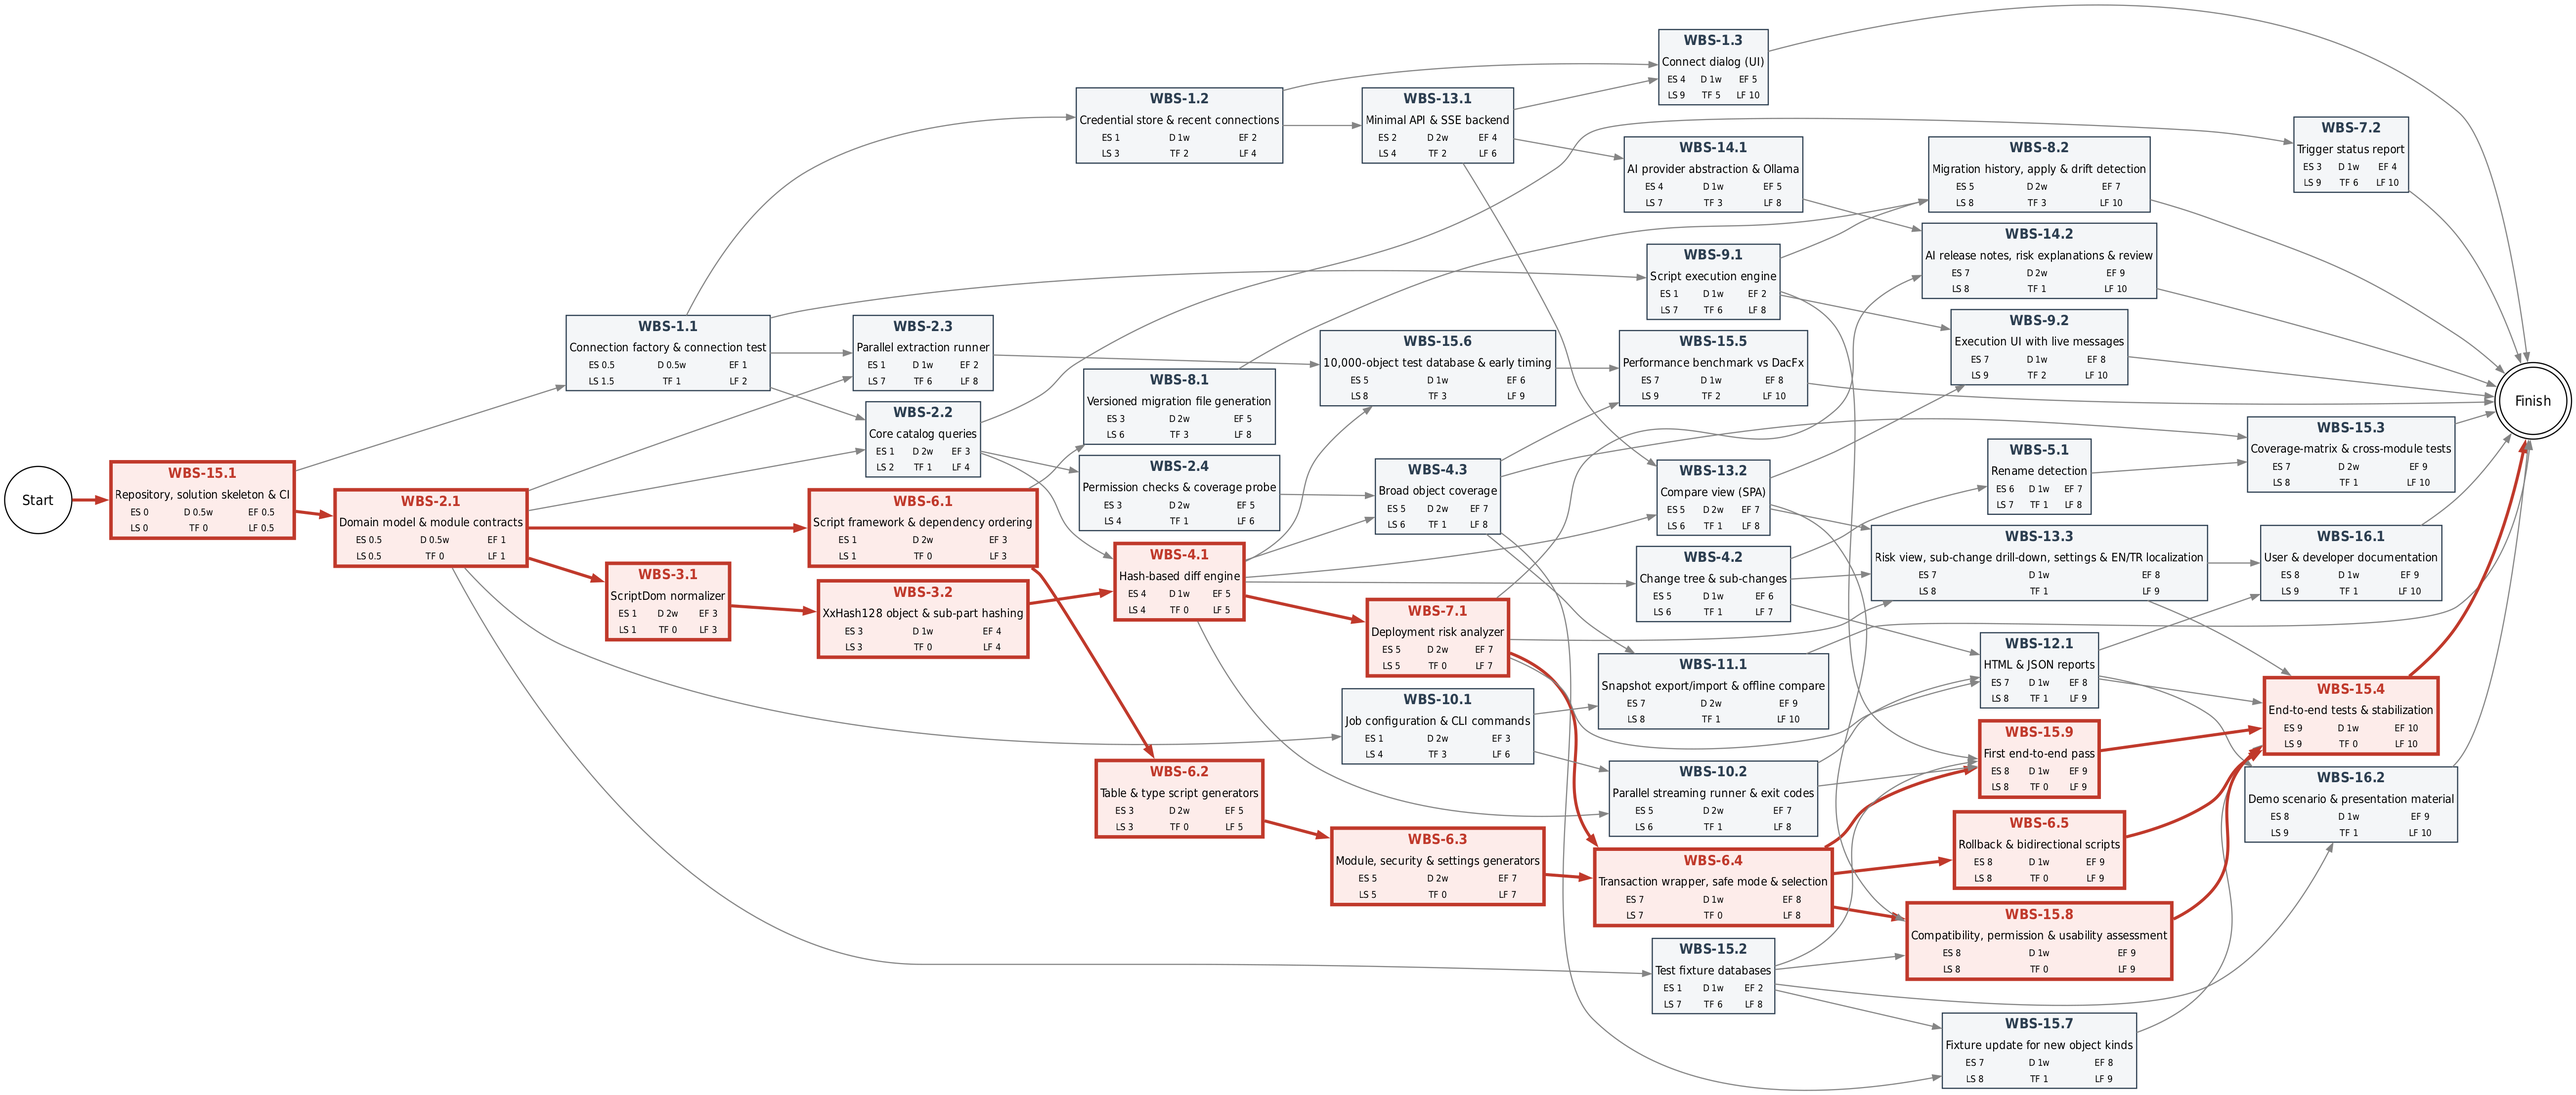
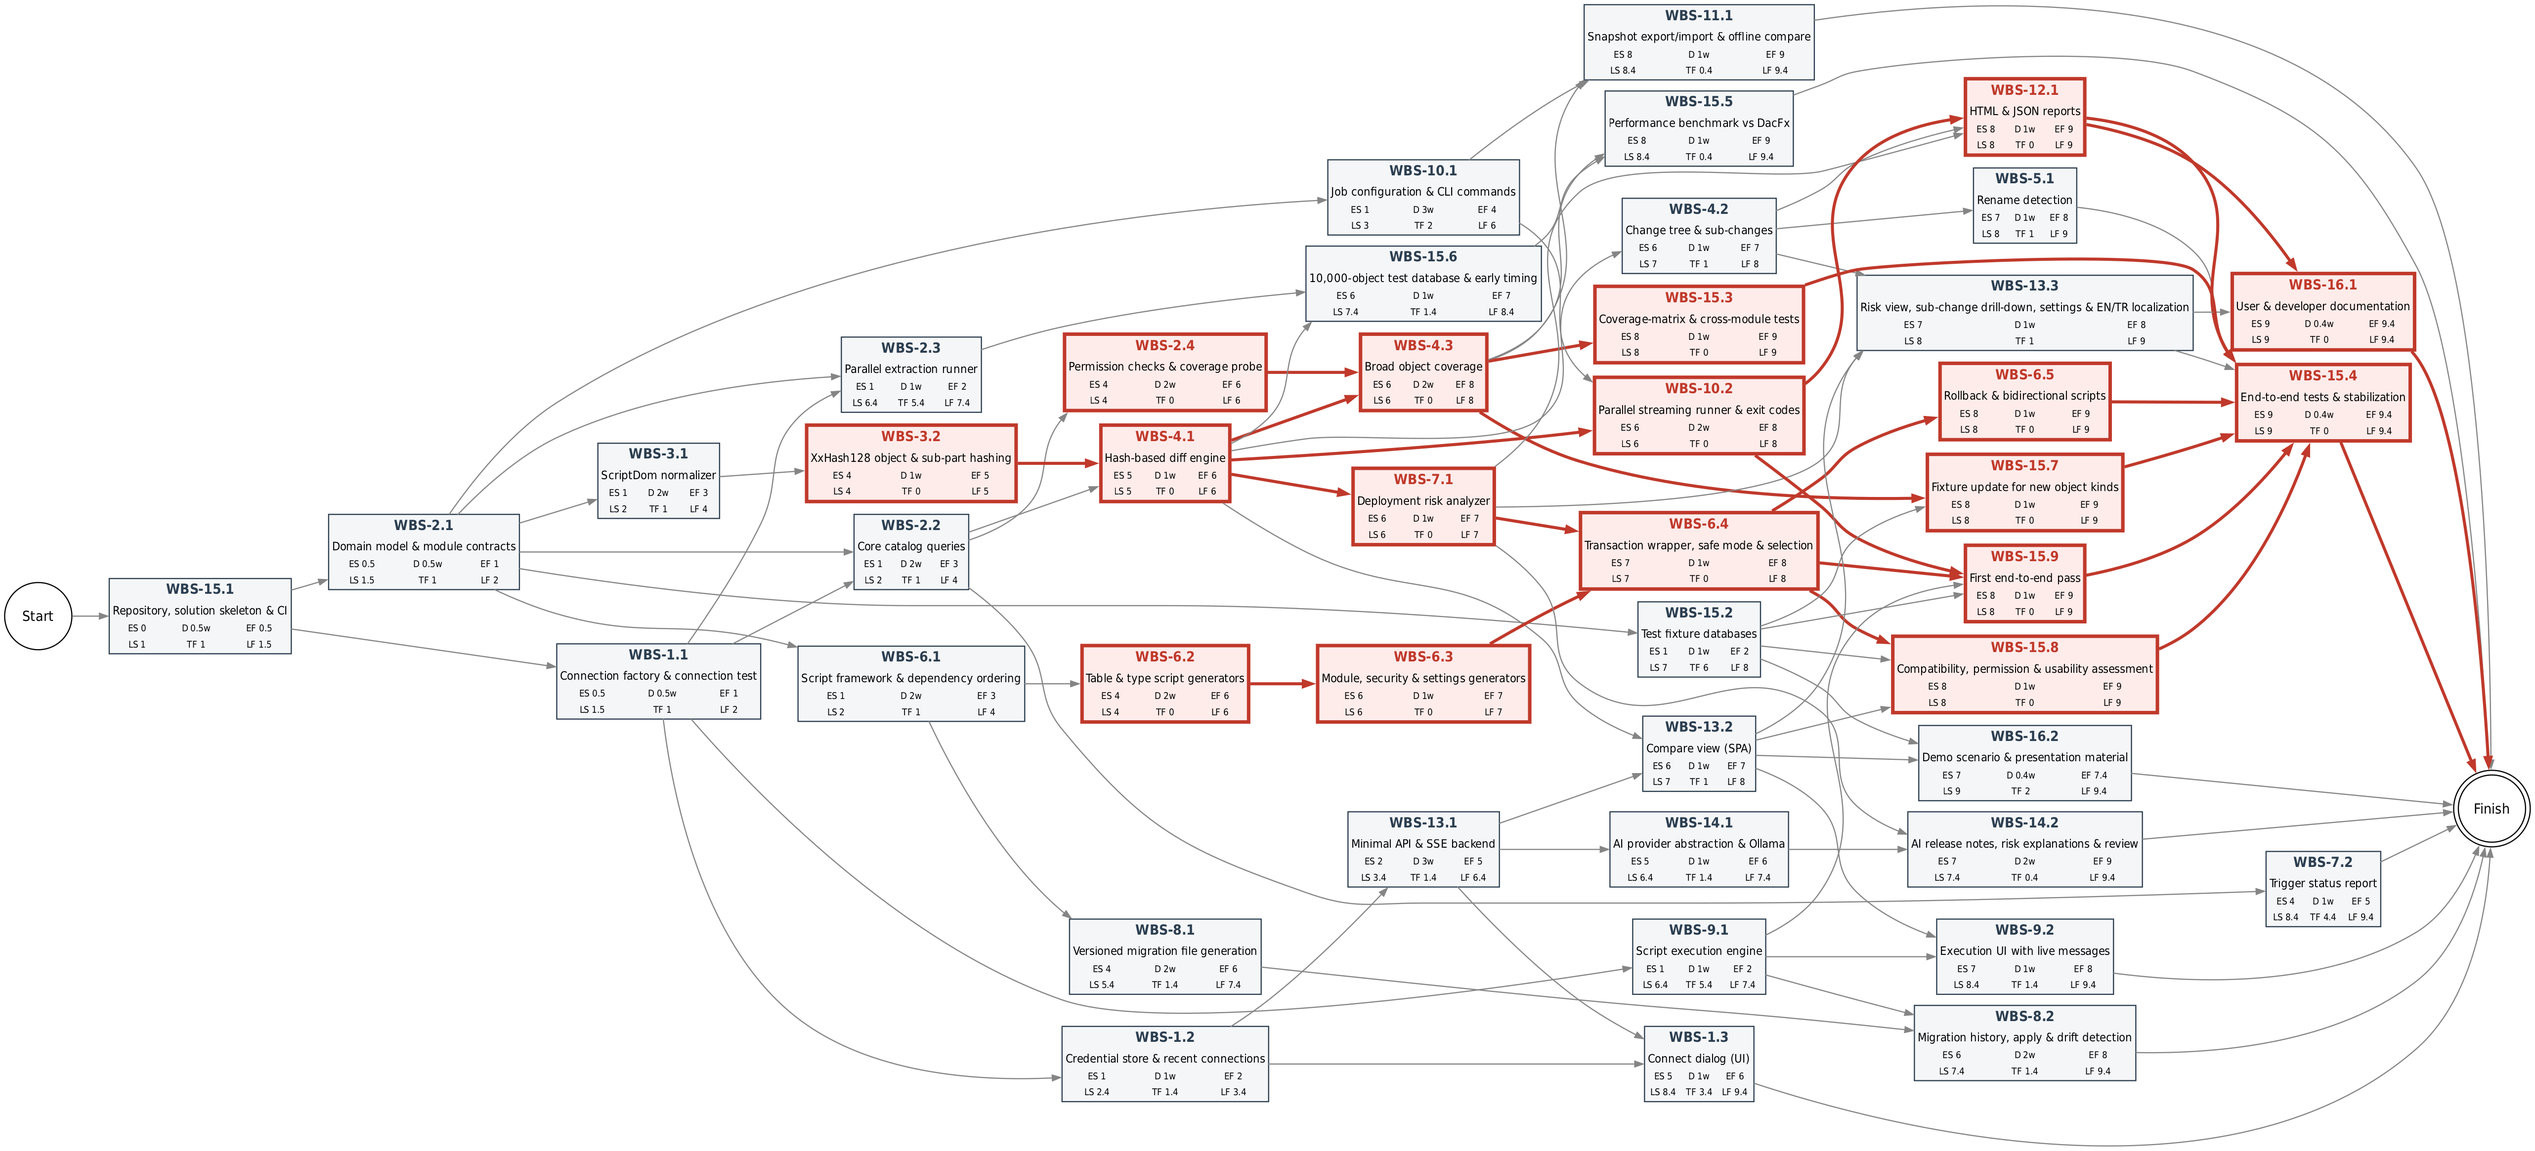
docs(plan): re-baseline the schedule model with a time buffer
Open activities start no earlier than W5 and the backward pass ends on 22 Dec, so 23 to 25 Dec stay free. Both charts are redrawn from the model.

Changed region(s): [[0.0, 0.0, 0.9982, 0.9964], [0.4055, 0.0623, 0.4991, 0.1245], [0.2496, 0.6227, 0.2808, 0.6539]]

diff --git a/docs/diagrams/project-plan/charts.py b/docs/diagrams/project-plan/charts.py
@@ -16,6 +16,8 @@ import matplotlib.pyplot as plt
 NAMES = {"ME": "Mehmet Elhan", "ÖFY": "Ömer Faruk Yılmaz", "MG": "Mücahit Günay",
          "İY": "İsmail Yeşilyurt", "MTY": "Mustafa Talha Yıldırım", "EBT": "Enes Birol Tatlı"}
 PROJECT_END = 10
+WORK_END = 9.4  # Tuesday 22 Dec, 23 to 25 Dec stay free as a time buffer before the code freeze
+REBASE = 4  # v1.3: nothing was delivered in W4, so open activities start no earlier than W5
 
 # id: (name, group, [(member, fte, start, duration), ...], predecessors)
 A = {
@@ -24,64 +26,65 @@ A = {
          [("ÖFY", .5, .5, .5), ("MG", .5, .5, .5), ("İY", .5, .5, .5), ("MTY", .5, .5, .5)], ["15.1"]),
  "2.2": ("Core catalog queries", "Extraction", [("ÖFY", .5, 1, 2)], ["2.1", "1.1"]),
  "2.3": ("Parallel extraction runner", "Extraction", [("ME", .5, 1, 1)], ["2.1", "1.1"]),
- "2.4": ("Permission checks & coverage probe", "Extraction", [("ÖFY", .5, 3, 2)], ["2.2"]),
+ "2.4": ("Permission checks & coverage probe", "Extraction", [("ÖFY", .5, 4, 2)], ["2.2"]),
  "4.3": ("Broad object coverage", "Extraction",
-         [("ÖFY", .5, 5, 2), ("MG", .25, 5, 2), ("ME", .25, 5, 2)], ["2.4", "4.1"]),
- "11.1": ("Snapshot export/import & offline compare", "Extraction", [("ÖFY", .5, 7, 2)], ["10.1", "4.3"]),
+         [("ÖFY", .75, 6, 1), ("MG", .25, 6, 1), ("ÖFY", .5, 7, 1), ("MG", .25, 7, 1), ("İY", .25, 7, 1)], ["2.4", "4.1"]),
+ "11.1": ("Snapshot export/import & offline compare", "Extraction", [("ÖFY", .75, 8, 1), ("ME", .25, 8, 1)], ["10.1", "4.3"]),
  "3.1": ("ScriptDom normalizer", "Comparison", [("MG", .5, 1, 2)], ["2.1"]),
- "3.2": ("XxHash128 object & sub-part hashing", "Comparison", [("MG", .5, 3, 1)], ["3.1"]),
- "4.1": ("Hash-based diff engine", "Comparison", [("MG", .5, 4, 1), ("ME", .5, 4, 1)], ["3.2", "2.2"]),
- "4.2": ("Change tree & sub-changes", "Comparison", [("MG", .5, 5, 1)], ["4.1"]),
- "5.1": ("Rename detection", "Comparison", [("MG", .5, 6, 1)], ["4.2"]),
+ "3.2": ("XxHash128 object & sub-part hashing", "Comparison", [("MG", .5, 4, 1)], ["3.1"]),
+ "4.1": ("Hash-based diff engine", "Comparison", [("MG", .5, 5, 1), ("ME", .5, 5, 1)], ["3.2", "2.2"]),
+ "4.2": ("Change tree & sub-changes", "Comparison", [("MG", .5, 6, 1)], ["4.1"]),
+ "5.1": ("Rename detection", "Comparison", [("MG", .5, 7, 1)], ["4.2"]),
  "6.1": ("Script framework & dependency ordering", "Deployment", [("İY", .5, 1, 2)], ["2.1"]),
- "6.2": ("Table & type script generators", "Deployment", [("İY", .5, 3, 2), ("MTY", .5, 3, 2)], ["6.1"]),
- "6.3": ("Module, security & settings generators", "Deployment", [("İY", .5, 5, 2)], ["6.2"]),
+ "6.2": ("Table & type script generators", "Deployment", [("İY", .5, 4, 2), ("MTY", .5, 4, 2)], ["6.1"]),
+ "6.3": ("Module, security & settings generators", "Deployment", [("İY", .75, 6, 1), ("ME", .25, 6, 1)], ["6.2"]),
  "6.4": ("Transaction wrapper, safe mode & selection", "Deployment", [("İY", .5, 7, 1)], ["6.3", "7.1"]),
  "6.5": ("Rollback & bidirectional scripts", "Deployment", [("İY", .75, 8, 1), ("MTY", .25, 8, 1)], ["6.4"]),
  "9.1": ("Script execution engine", "Risk & Migration", [("MTY", .5, 2, 1)], ["1.1"]),
- "7.1": ("Deployment risk analyzer", "Risk & Migration", [("MTY", .5, 5, 2)], ["4.1"]),
- "7.2": ("Trigger status report", "Risk & Migration", [("MTY", .25, 9, 1)], ["2.2"]),
+ "7.1": ("Deployment risk analyzer", "Risk & Migration",
+         [("MTY", .75, 6, 1), ("ME", .25, 6, 1)], ["4.1"]),
+ "7.2": ("Trigger status report", "Risk & Migration", [("MTY", .25, 7, 1)], ["2.2"]),
  "8.1": ("Versioned migration file generation", "Risk & Migration", [("MTY", .25, 5, 2)], ["6.1"]),
  "8.2": ("Migration history, apply & drift detection", "Risk & Migration", [("MTY", .5, 7, 2)], ["8.1", "9.1"]),
- "10.1": ("Job configuration & CLI commands", "CLI & Reports", [("ME", .5, 2, 2)], ["2.1"]),
- "10.2": ("Parallel streaming runner & exit codes", "CLI & Reports", [("ME", .25, 5, 2)], ["10.1", "4.1"]),
+ "10.1": ("Job configuration & CLI commands", "CLI & Reports", [("ME", .5, 2, 1), ("ME", .5, 4, 1)], ["2.1"]),
+ "10.2": ("Parallel streaming runner & exit codes", "CLI & Reports", [("ME", .25, 6, 2)], ["10.1", "4.1"]),
  "12.1": ("HTML & JSON reports", "CLI & Reports", [("ME", .5, 8, 1)], ["10.2", "7.1", "4.2"]),
  "1.1": ("Connection factory & connection test", "Web UI & AI", [("EBT", 1, .5, .5)], ["15.1"]),
  "1.2": ("Credential store & recent connections", "Web UI & AI", [("EBT", .5, 1, 1)], ["1.1"]),
- "13.1": ("Minimal API & SSE backend", "Web UI & AI", [("EBT", .5, 2, 2)], ["1.2"]),
- "1.3": ("Connect dialog (UI)", "Web UI & AI", [("EBT", .5, 4, 1)], ["1.2", "13.1"]),
- "13.2": ("Compare view (SPA)", "Web UI & AI", [("EBT", .5, 5, 2)], ["13.1", "4.1"]),
+ "13.1": ("Minimal API & SSE backend", "Web UI & AI", [("EBT", .5, 2, 1), ("EBT", .5, 4, 1)], ["1.2"]),
+ "1.3": ("Connect dialog (UI)", "Web UI & AI", [("EBT", .5, 5, 1)], ["1.2", "13.1"]),
+ "13.2": ("Compare view (SPA)", "Web UI & AI", [("EBT", 1, 6, 1)], ["13.1", "4.1"]),
  "13.3": ("Risk view, sub-change drill-down, settings & EN/TR localization", "Web UI & AI",
-          [("EBT", .5, 7, 1), ("ME", .5, 7, 1)], ["13.2", "7.1", "4.2"]),
+          [("EBT", .25, 7, 1), ("ME", .75, 7, 1)], ["13.2", "7.1", "4.2"]),
  "14.1": ("AI provider abstraction & Ollama", "Web UI & AI", [("EBT", .25, 5, 1)], ["13.1"]),
- "14.2": ("AI release notes, risk explanations & review", "Web UI & AI",
-          [("EBT", .25, 7, 1), ("EBT", .75, 8, 1)], ["14.1", "7.1"]),
- "9.2": ("Execution UI with live messages", "Web UI & AI", [("EBT", .25, 9, 1)], ["13.2", "9.1"]),
+ "14.2": ("AI release notes, risk explanations & review", "Web UI & AI", [("EBT", .5, 7, 2)], ["14.1", "7.1"]),
+ "9.2": ("Execution UI with live messages", "Web UI & AI", [("EBT", .25, 8, 1)], ["13.2", "9.1"]),
  "15.2": ("Test fixture databases", "Quality & Docs", [("MTY", .5, 1, 1)], ["2.1"]),
- "15.6": ("10,000-object test database & early timing", "Quality & Docs", [("ÖFY", .25, 5, 1)], ["4.1", "2.3"]),
- "15.3": ("Coverage-matrix & cross-module tests", "Quality & Docs", [("MG", .5, 7, 2)], ["4.3", "5.1"]),
- "15.7": ("Fixture update for new object kinds", "Quality & Docs", [("İY", .25, 7, 1)], ["4.3", "15.2"]),
+ "15.6": ("10,000-object test database & early timing", "Quality & Docs", [("ÖFY", .25, 6, 1)], ["4.1", "2.3"]),
+ "15.3": ("Coverage-matrix & cross-module tests", "Quality & Docs",
+          [("MG", .75, 8, 1), ("MTY", .25, 8, 1)], ["4.3"]),
+ "15.7": ("Fixture update for new object kinds", "Quality & Docs", [("İY", .25, 8, 1)], ["4.3", "15.2"]),
  "15.5": ("Performance benchmark vs DacFx", "Quality & Docs", [("ÖFY", .25, 8, 1)], ["4.3", "15.6"]),
  "15.8": ("Compatibility, permission & usability assessment", "Quality & Docs",
-          [("MG", .25, 8, 1)], ["6.4", "13.2", "15.2"]),
+          [("EBT", .25, 8, 1)], ["6.4", "13.2", "15.2"]),
  "15.9": ("First end-to-end pass", "Quality & Docs", [("ME", .25, 8, 1)], ["6.4", "10.2", "15.2", "9.1"]),
  "15.4": ("End-to-end tests & stabilization", "Quality & Docs",
-         [("ÖFY", .25, 9, 1), ("MG", .25, 9, 1), ("İY", .25, 9, 1), ("MTY", .25, 9, 1)],
-         ["6.5", "12.1", "13.3", "15.7", "15.8", "15.9"]),
+         [("ÖFY", .625, 9, .4), ("MG", .625, 9, .4), ("İY", .625, 9, .4), ("MTY", .625, 9, .4)],
+         ["6.5", "12.1", "13.3", "15.3", "15.7", "15.8", "15.9", "5.1"]),
  "16.1": ("User & developer documentation", "Quality & Docs",
-          [("ME", .25, 9, 1), ("MG", .25, 9, 1)], ["12.1", "13.3"]),
- "16.2": ("Demo scenario & presentation material", "Quality & Docs", [("ME", .25, 9, 1)], ["12.1", "15.2"]),
+          [("ME", .625, 9, .4), ("MG", .625, 9, .4)], ["12.1", "13.3"]),
+ "16.2": ("Demo scenario & presentation material", "Quality & Docs", [("ME", .625, 9, .4)], ["13.2", "15.2"]),
 }
 
 
 def span(a):
     rows = A[a][2]
     start = min(r[2] for r in rows)
-    return start, max(r[2] + r[3] for r in rows) - start
+    return start, round(max(r[2] + r[3] for r in rows) - start, 6)
 
 
 def effort(a):
-    return sum(r[1] * r[3] for r in A[a][2])
+    return round(sum(r[1] * r[3] for r in A[a][2]), 6)
 
 
 def cpm():
@@ -89,7 +92,9 @@ def cpm():
     def forward(a):
         if a not in es:
             es[a] = max((forward(p) for p in A[a][3]), default=0)
-            ef[a] = es[a] + span(a)[1]
+            if span(a)[0] >= REBASE:
+                es[a] = max(es[a], REBASE)
+            ef[a] = round(es[a] + span(a)[1], 6)
         return ef[a]
     for a in A:
         forward(a)
@@ -97,8 +102,8 @@ def cpm():
     ls, lf = {}, {}
     def backward(a):
         if a not in ls:
-            lf[a] = min((backward(s) for s in succ[a]), default=PROJECT_END)
-            ls[a] = lf[a] - span(a)[1]
+            lf[a] = min((backward(s) for s in succ[a]), default=WORK_END)
+            ls[a] = round(lf[a] - span(a)[1], 6)
         return ls[a]
     for a in A:
         backward(a)
@@ -110,33 +115,29 @@ def allocation():
     for a in A:
         for m, fte, s, d in A[a][2]:
             for w in range(10):
-                table[m][w] += fte * max(0, min(s + d, w + 1) - max(s, w))
+                table[m][w] = round(table[m][w] + fte * max(0, min(s + d, w + 1) - max(s, w)), 6)
     return table
 
 
 def check():
     es, ef, ls, lf = cpm()
     errors = []
-    if max(ef.values()) != PROJECT_END:
-        errors.append(f"project length is {max(ef.values())}")
+    if max(ef.values()) > WORK_END:
+        errors.append(f"work ends at {max(ef.values())}, after the buffer starts")
     for a in A:
         start, dur = span(a)
         if not es[a] <= start <= ls[a]:
             errors.append(f"{a}: start {start} outside ES {es[a]} to LS {ls[a]}")
         for p in A[a][3]:
-            if sum(span(p)) > start:
+            if round(sum(span(p)), 6) > start:
                 errors.append(f"{a}: starts at {start} before {p} finishes at {sum(span(p))}")
     table = allocation()
     for m, weeks in table.items():
-        run = 0
         for w, v in enumerate(weeks, 1):
-            if v > .75:
+            if v > (1 if w >= 7 else .75):
                 errors.append(f"{m} W{w} is at {v}")
             if v > .5 and w < 6:
                 errors.append(f"{m} W{w} has a peak before the midterm")
-            run = run + 1 if v > .5 else 0
-            if run > 2 and w < 10:
-                errors.append(f"{m} has more than two peak weeks up to W{w}")
     return errors
 
 
@@ -221,6 +222,8 @@ def gantt(path):
         ax.axvline(t, color="#DDDDDD", lw=.8, zorder=0)
     for w in range(10):
         ax.text(w * 7 + 3.5, -1.1, f"W{w+1}", ha="center", fontsize=8.5, color="#7F8C8D")
+    ax.axvspan(65, 68, color="#27AE60", alpha=.08, lw=0)
+    ax.text(66.5, len(order) - 1, "Buffer", ha="center", va="center", fontsize=8, color="#27AE60", rotation=90)
     ax.axvline(68, color="#27AE60", ls="--", lw=1.4)
     ax.text(68.6, -1.1, "Codebase deadline\n25 Dec 23:59", fontsize=7, color="#27AE60", va="center")
     pos = 0
